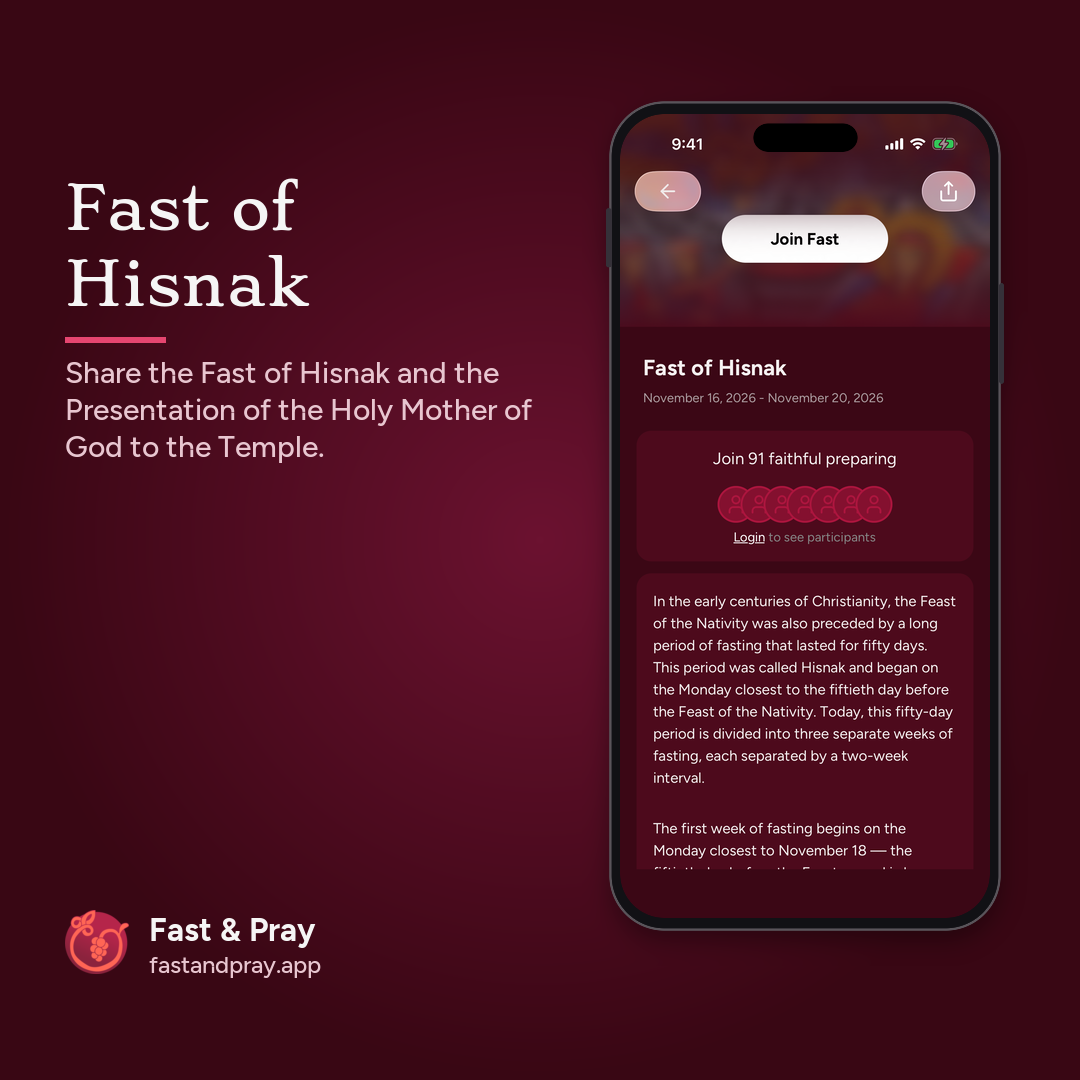
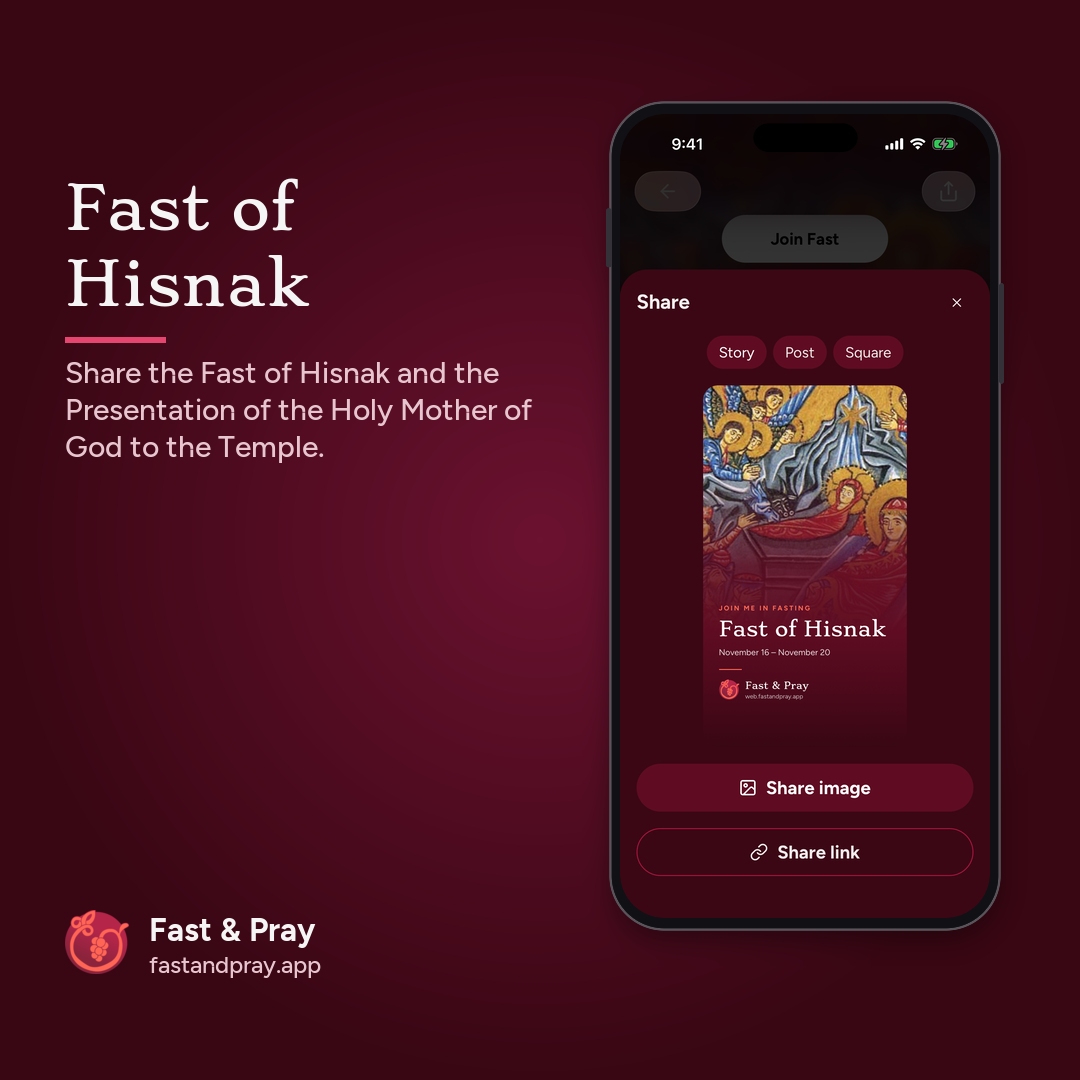
Show the Share sheet in the post images

Changed region(s): [[0.55, 0.0917, 0.9167, 0.7333], [0.5806, 0.7639, 0.8556, 0.7944]]

diff --git a/src/content/blog/share-your-fast.md b/src/content/blog/share-your-fast.md
@@ -18,9 +18,9 @@ Fasting is personal, but it was never meant to be lonely. When we keep a fast, i
 ## Why it matters
 When one person shares, family and friends see an invitation. It may be the first time they hear that the Church is fasting, or a reminder to someone who has stepped away. You might invite someone to fast alongside you this season.
 
-![Fast detail with the share button](./share-your-fast/still-1.png)
+![The Share sheet for the Fast of Hisnak, with the Story, Post and Square previews](./share-your-fast/still-1.png)
 
-![Feast detail](./share-your-fast/still-2.png)
+![The Share sheet for the Presentation of the Holy Mother of God to the Temple](./share-your-fast/still-2.png)
 
 <video src="/blog/share-your-fast/clip.mp4" controls muted playsinline loop style="max-width:100%"></video>
 
